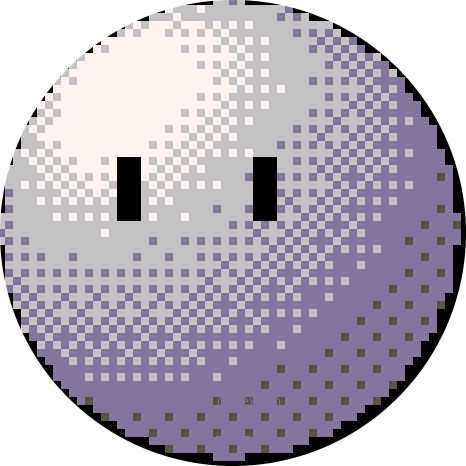
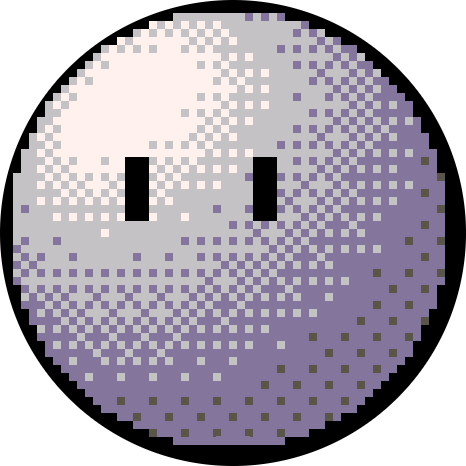
Deja margen y oculta el texto en reposo

diff --git a/firmware/pet/components/pet_ui/pet_ui.c b/firmware/pet/components/pet_ui/pet_ui.c
@@ -213,7 +213,7 @@ static float breath(int64_t now_us){return s_breath.value*sinf((float)(now_us%BR
  * Blend through the existing spring so entering/leaving idle stays continuous. */
 static float idle_scale(int64_t now_us){
     float wave=(1+sinf((float)(now_us%BREATH_PERIOD_US)/BREATH_PERIOD_US*6.2831853f))*.5f;
-    return (466.0f/224.0f)*(1-.04f*wave);
+    return (442.0f/224.0f)*(1-.04f*wave);
 }
 /* Mezcla entre el color del orb y el de sin conexión, con --ease-io3 (Cubic) en 320 ms. */
 static int offline_mix(bool offline,int64_t now_us){
@@ -302,7 +302,7 @@ static void draw(lv_timer_t *timer){
     /* Escala con transform_scale (1/256): el borde se mueve por debajo del píxel. */
     int sx=(int)lroundf((s_scale_x.value+grow-.010f*b*(1-idle))*256),sy=(int)lroundf((s_scale_y.value+grow+.025f*b*(1-idle))*256);
     /* Never round the maximum idle diameter beyond the physical circle. */
-    if(idle>.999f){if(sx>532)sx=532;if(sy>532)sy=532;}
+    if(idle>.999f){if(sx>505)sx=505;if(sy>505)sy=505;}
     int rotation=(int)lroundf(s_rotation.value*10);
     lv_obj_set_y(body,98+(int)lroundf(s_offset.value+23*idle));
     if(sx!=last_sx){last_sx=sx;lv_obj_set_style_transform_scale_x(body,sx,0);}
@@ -331,6 +331,7 @@ static void draw(lv_timer_t *timer){
     const char *hint=current.connection==PET_CONN_READY?PET_STR_HINT_TALK:offline?PET_STR_OFFLINE:PET_STR_HINT_CONNECTING;
     if(current.dialogue==PET_DIALOGUE_LISTEN)hint=PET_STR_HINT_RELEASE;
     else if(current.connection==PET_CONN_READY&&current.dialogue!=PET_DIALOGUE_IDLE)hint=PET_STR_HINT_INTERRUPT;
+    if(p.expression==PET_EXPR_IDLE&&current.dialogue==PET_DIALOGUE_IDLE)hint="";
     if(strcmp(last_hint,hint)){snprintf(last_hint,sizeof(last_hint),"%s",hint);lv_label_set_text(voice_hint,last_hint);}
     if(page==1){
         syncing=true;lv_slider_set_value(volume_slider,current.volume,LV_ANIM_OFF);

diff --git a/sim/README.md b/sim/README.md
@@ -88,7 +88,7 @@ Común a los dos temas (`firmware/pet/components/pet_ui/pet_motion.c`):
 
 - **Transiciones de estado en 320 ms:** escala, altura, giro y mirada siguen la pose de `pet_core` con muelles críticamente amortiguados. No rebotan y, partiendo de reposo, recorren el camino en forma de S (arranque y frenada suaves); llegan al 95 % en 320 ms. Si el estado cambia a mitad, conservan la velocidad y la transición se encadena.
 - **Ojos:** el mismo tipo de muelle en 110 ms. El parpadeo cierra hacia el centro, y la sonrisa aparece cuando los ojos ya se han cerrado.
-- **Respiración en reposo:** un seno uniforme de 4 s entre el 96 % y el máximo círculo inscrito de 466 px, centrado en (233, 233). Entra y sale en 400 ms. El suave cuantiza la escala a 1/256 hacia dentro en el máximo; el pixel conserva bloques de 8 px y descarta los que sobresaldrían del círculo físico.
+- **Respiración en reposo:** un seno uniforme de 4 s entre el 96 % y el diámetro máximo de 442 px (12 px de margen por lado), centrado en (233, 233). En reposo no muestra texto. Entra y sale en 400 ms. El suave cuantiza la escala a 1/256 hacia dentro en el máximo; el pixel conserva bloques de 8 px y descarta los que sobresaldrían del círculo físico.
 - **Refresco reducido en reposo:** cuando solo respira, el dibujo baja a 55 ms (unos 18 fps), y LVGL solo pinta si la escala cambia de verdad. Con cualquier cambio vuelve al refresco normal en el siguiente fotograma.
 - **Sin conexión:** el color pasa al gris con `--ease-io3` (Cubic, `cubic-bezier(0.645, 0.045, 0.355, 1)`) en 320 ms. En el tema de 8 bits la mezcla se hace con tramado.
 
